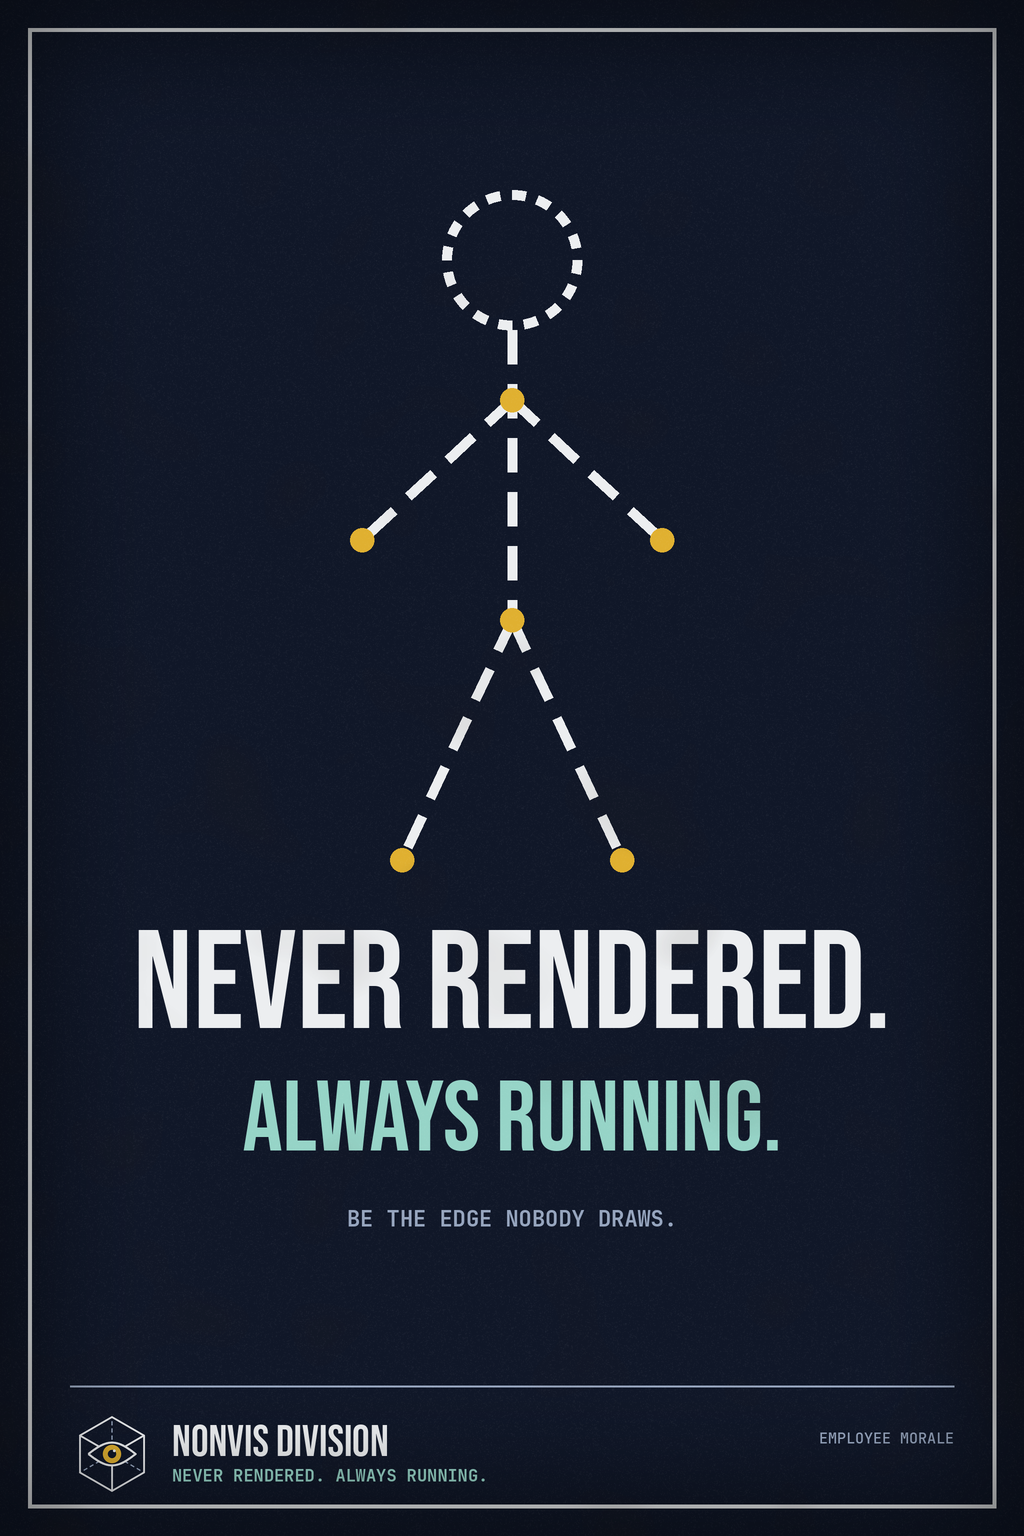
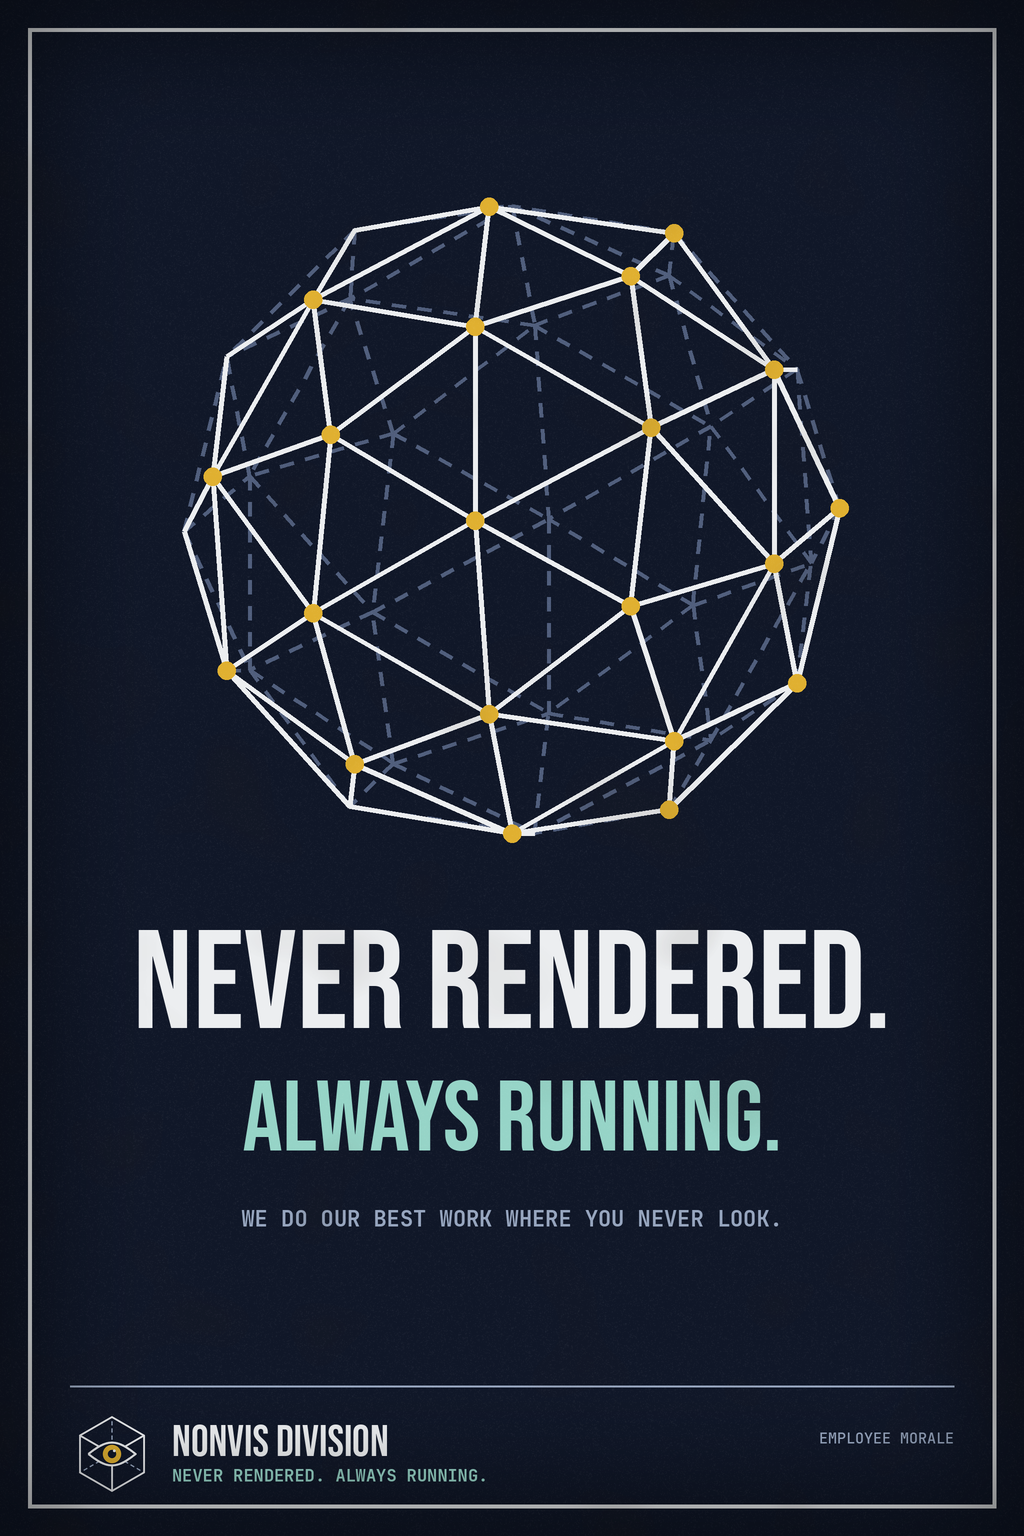
docs: redraw four VPK Industries posters
Tap and soap bubbles instead of the hands, a rounded storm cloud, a fully
dashed cube and a wireframe mesh sphere; new texts for the two Nonvis
posters.

Claude-Session: https://claude.ai/code/session_01TPtXe8YEjXWuXNmFgmXabW

Changed region(s): [[0.1562, 0.125, 0.8438, 0.5938], [0.2188, 0.7812, 0.6875, 0.8125], [0.7188, 0.7812, 0.75, 0.8125]]

diff --git a/docs/vpk-industries.md b/docs/vpk-industries.md
@@ -172,7 +172,7 @@ Posters (1024×1536) for the walls of the rooms, same folder:
 | `poster_dynasnow-coming-soon_1024x1536.png` | DynaSnow™ coming soon: flake No. 000 000 001, *"Store below 0 °K… wait, no."*, *"Do not lick."* |
 | `poster_incident-report-001_1024x1536.png` | Incident Report #001 as a redacted paper document with a "CLASSIFIED" stamp |
 | `poster_lightning-loot-box_1024x1536.png` | *"Feeling lucky?"*: Lightning Loot Box™, 0.01% chance of gold |
-| `poster_wash-your-hands_1024x1536.png` | *"Wash your hands."*: Kdanium residue may cause local rain, mild glowing, unscheduled weather |
+| `poster_wash-your-hands_1024x1536.png` | *"Wash your hands."*: a tap running Kd₂O, soap bubbles; Kdanium residue may cause local rain, mild glowing, unscheduled weather |
 | `poster_playable-area-this-way_1024x1536.png` | Green wayfinding sign: playable area →, *"You are here: nowhere"*, route: noclip |
 | `poster_thunder-plus_1024x1536.png` | *"Thunder+. Now ad-free."* |
 
@@ -180,9 +180,9 @@ Nonvis Division posters (with the Nonvis logo in the footer):
 
 | File | Poster |
 | :--- | :--- |
-| `poster_nonvis_this-area-does-not-exist_1024x1536.png` | *"This area does not exist."*: a dashed, "not rendered" room |
+| `poster_nonvis_this-area-does-not-exist_1024x1536.png` | *"This area does not exist."*: a fully dashed, "not rendered" cube; *"If you can see it, something went wrong."* |
 | `poster_nonvis_clearance-levels_1024x1536.png` | Clearance levels 0–4: player, spectator, noclip, Hammer, Daniel K. *"Your current level: 2. Please leave."* |
-| `poster_nonvis_never-rendered_1024x1536.png` | *"Never rendered. Always running."*: a dashed wireframe figure, *"Be the edge nobody draws."* |
+| `poster_nonvis_never-rendered_1024x1536.png` | *"Never rendered. Always running."*: a wireframe mesh sphere, *"We do our best work where you never look."* |
 
 ## Texts used in the rooms
 
